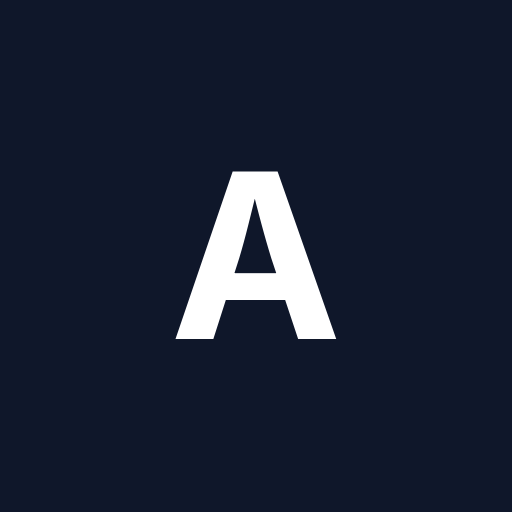
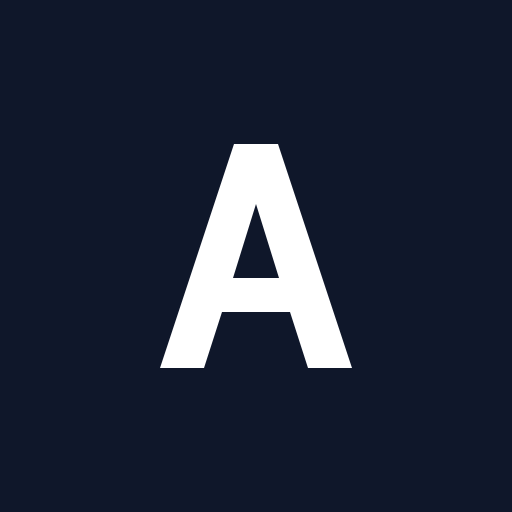
feat(branding): refina la A y unifica los iconos de Axia

Changed region(s): [[0.3125, 0.2812, 0.6875, 0.7188], [0.4375, 0.5, 0.5625, 0.625], [0.4688, 0.4062, 0.5312, 0.5]]

diff --git a/docs/reference/convenciones-codigo.md b/docs/reference/convenciones-codigo.md
@@ -75,6 +75,11 @@ Formularios con React Hook Form y Zod, errores junto al campo, etiquetas, teclad
 contraste, texto alternativo y objetivos táctiles de 44 px. Los componentes shadcn regenerables
 solo se modifican con una necesidad justificada.
 
+El original de la marca vive en `apps/web/public/logo.svg`. Los iconos PNG se derivan de ese
+vector: Apple a 180 px y PWA a 192 y 512 px. La A queda dentro del círculo central de radio
+40 % del lado para admitir recortes del icono `maskable`. El favicon incluye 16, 32, 48 y
+64 px, con la A ampliada 1.5 veces respecto del centro para mejorar su lectura en tamaños pequeños.
+
 ## 8. Cliente HTTP
 
 Las lecturas y mutaciones tienen contratos explícitos. Los cambios de flujo se envían como acciones

diff --git a/CHANGELOG.md b/CHANGELOG.md
@@ -10,6 +10,11 @@ Todos los cambios relevantes se documentan en este archivo. El formato sigue
 - Las barras de composición del ciclo en el detalle del tiquet y en Métricas → Tiempos muestran
   fase, duración y porcentaje al pasar el cursor o enfocar cada segmento con teclado.
 
+### Cambiado
+
+- Los iconos de Axia usan una A más esbelta y geométrica, con variantes coherentes para
+  navegador, Apple y la PWA instalada. El original vectorial se conserva en `apps/web/public/logo.svg`.
+
 ### Corregido
 
 - El modo laboral de «Tiempo por fase» en el detalle del tiquet muestra los minutos calculados
